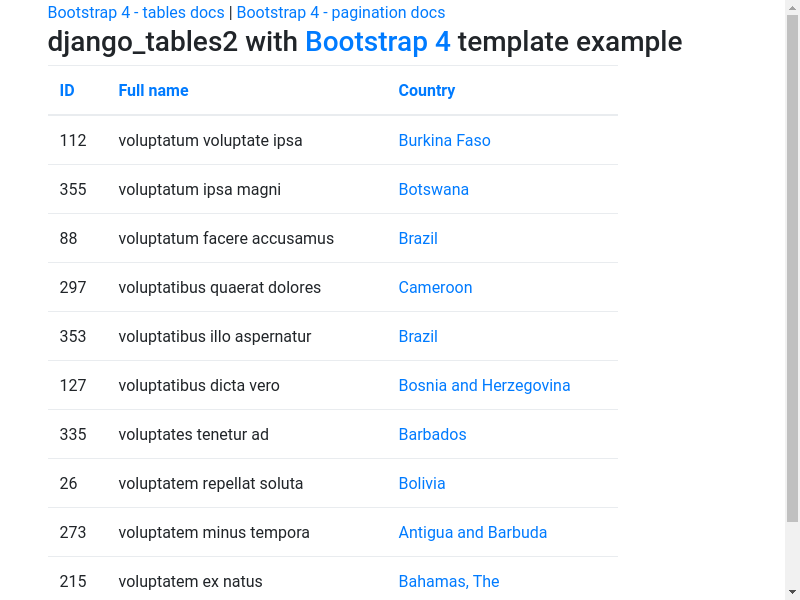
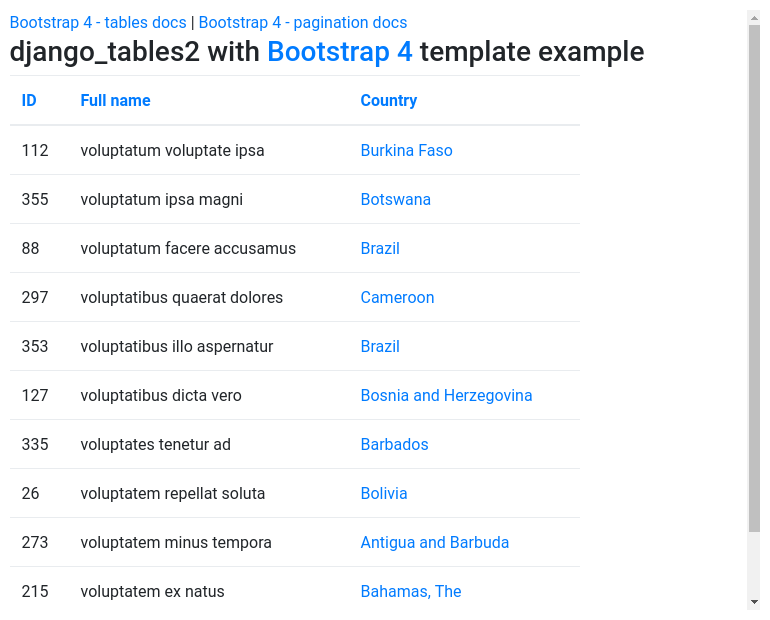
Trim and add 10px padding

diff --git a/maintenance.py b/maintenance.py
@@ -31,8 +31,8 @@ if sys.argv[-1] == 'screenshots':
         print('Starting to sleep for {}s...'.format(delay))
         time.sleep(delay)
         chrome.kill()
-
-        os.rename('screenshot.png', dest)
+        os.system('convert screenshot.png -trim -bordercolor White -border 10x10 {}'.format(dest))
+        os.remove('screenshot.png')
         print('Saved file to', dest)
 
     images = {
